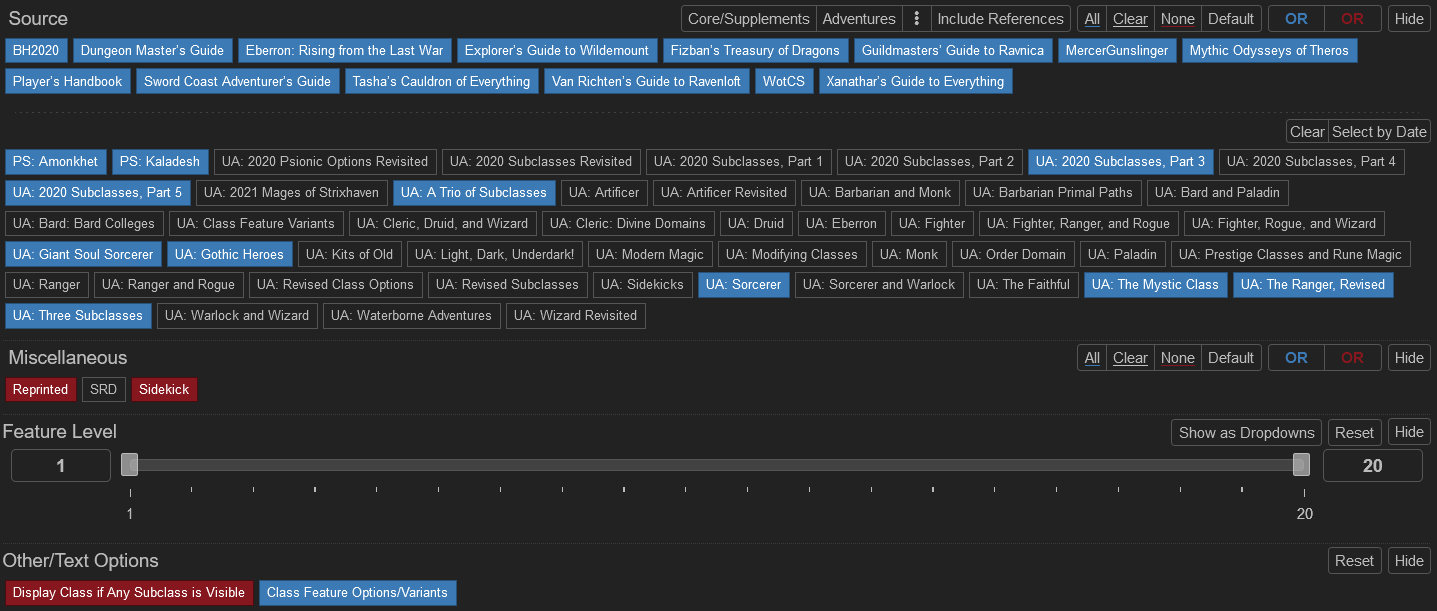
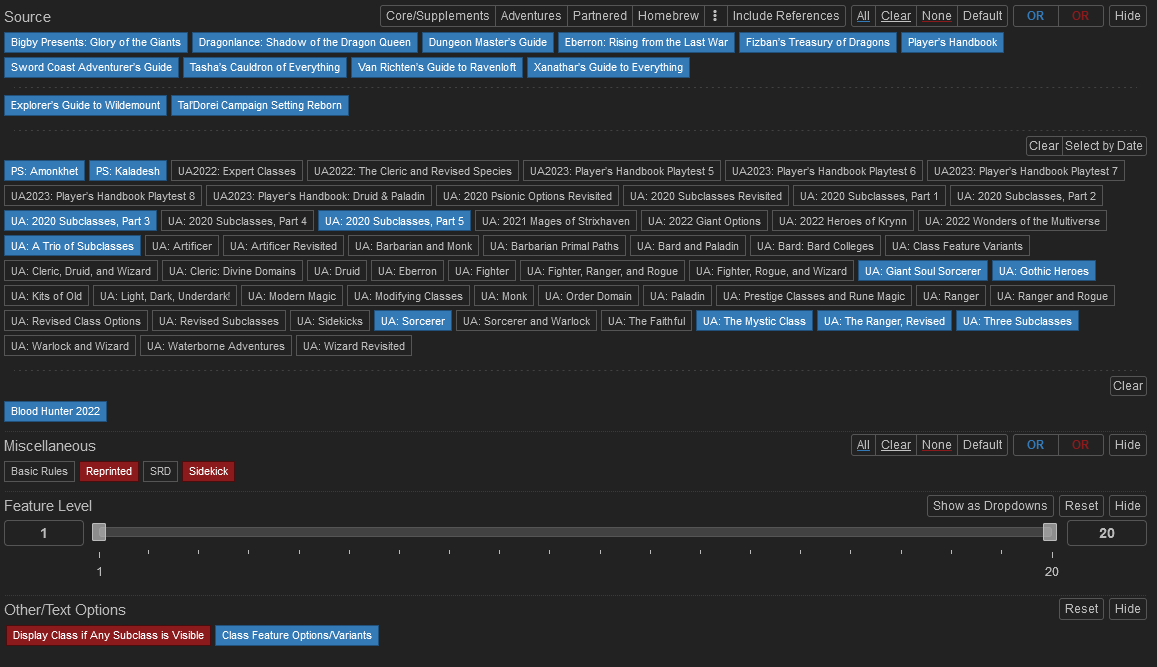
Update to catch up to BGG, TDCSR, PBTSO, SaO, TBoMT

diff --git a/character_creation/2_core_character_creation.md b/character_creation/2_core_character_creation.md
@@ -8,7 +8,7 @@ Be aware that ReCoA uses some [custom rules](../modified_mechanics/rules.md). Ea
 (If a link to a filtered 5e page differs from the screenshot of the filter on the github, the screenshot on the github shows the correct options.  Disregard the link, it is most likely outdated.)
 
 ## Races
-To see allowed Races, set the filters according to the image below, or use this [link](https://5e.tools/races.html#aarakocra_eepc,flstsource:awm=1~lr=1~oga=1~psz=1~ttp=1,flopsource:extend).
+To see allowed Races, set the filters according to the image below, or use this [link](https://5e.tools/races.html#aarakocra_eepc,flstsource:awm=1~lr=1~oga=1~psz=1~ttp=1~egw=1,flopsource:extend).
 
 ![](../assets/allowed_races.png)
 
@@ -26,7 +26,7 @@ To see allowed Races, set the filters according to the image below, or use this 
 
 ## Classes
 
-To see allowed Classes, set the filters according to the image below, or use this [link](https://5e.tools/classes.html#artificer_tce,flstsource:psa=1~psk=1~ua2020subclassespt3=1~ua2020subclassespt5=1~uaatrioofsubclasses=1~uagiantsoulsorcerer=1~uagothicheroes=1~uasorcerer=1~uathemysticclass=1~uatherangerrevised=1~uathreesubclasses=1,flopsource:extend).
+To see allowed Classes, set the filters according to the image below, or use this [link](https://5e.tools/classes.html#artificer_tce,flstsource:psa=1~psk=1~ua2020subclassespt3=1~ua2020subclassespt5=1~uaatrioofsubclasses=1~uagiantsoulsorcerer=1~uagothicheroes=1~uasorcerer=1~uathemysticclass=1~uatherangerrevised=1~uathreesubclasses=1~egw=1~tdcsr=1,flopsource:extend).
 
 ![](../assets/allowed_classes.png)
 
@@ -35,7 +35,7 @@ To see allowed Classes, set the filters according to the image below, or use thi
 
 ## Spells
 
-To see allowed Spells, set the filters according to the image below, or use this [link](https://5e.tools/spells.html#abi-dalzim's%20horrid%20wilting_xge,flstsource:llk=1~scc=0,flopsource:extend).
+To see allowed Spells, set the filters according to the image below, or use this [link](https://5e.tools/spells.html#abi-dalzim's%20horrid%20wilting_xge~egw=1~tdcsr=1,flstsource:llk=1~scc=0,flopsource:extend).
 
 ![](../assets/allowed_spells.png)
 
@@ -43,13 +43,13 @@ To see allowed Spells, set the filters according to the image below, or use this
 
 ## Backgrounds
 
-To see allowed Backgrounds, set the filters according to the image below, or use this [link](https://5e.tools/backgrounds.html#acolyte_phb,flstsource:aag=0,flopsource:extend).
+To see allowed Backgrounds, set the filters according to the image below, or use this [link](https://5e.tools/backgrounds.html#acolyte_phb,flstsource:aag=0~egw=1~tdcsr=1,flopsource:extend).
 
 ![](../assets/allowed_backgrounds.png)
 
 ## Feats
 
-To see allowed Feats, set the filters according to the image below, or use this [link](https://5e.tools/feats.html#aberrant%20dragonmark_erlw,flstsource:uafeatsforskills=1~uafeats=1,flopsource:extend).
+To see allowed Feats, set the filters according to the image below, or use this [link](https://5e.tools/feats.html#aberrant%20dragonmark_erlw,flstsource:uafeatsforskills=1~uafeats=1~egw=1~tdcsr=1,flopsource:extend).
 
 ![](../assets/allowed_feats.png)
 
@@ -59,11 +59,17 @@ Characters are free to select a feat at first level if their background does not
 
 ## Items
 
-To see allowed items, set the filters according to the image below, or use this [link](https://5e.tools/items.html#chain%20mail_phb,flstsource:llk=1~oga=1~rmbre=0,flopsource:extend,flsttype:renaissance=0~treasure=0,floptype:extend).
+To see allowed items, set the filters according to the image below, or use this [link](https://5e.tools/items.html#chain%20mail_phb,flstsource:llk=1~oga=1~rmbre=0~egw=1~tdcsr=1,flopsource:extend,flsttype:renaissance=0~treasure=0,floptype:extend).
 
 ![](../assets/allowed_items.png)
 
 We allow items with the Renaissance tag but not the Futuristic or Modern tag. There are no exceptions.
+The following items are banned for thematic or balanced purposes:
+* Statuette of Saint Markovia (CoS)
+* Deck of Wonder (BoMT)
+* Deck of Many More Things (MoMT)
+* Jester's Mask (BoMT)
+* All variants of the Fate Dealer's Deck (BoMT)
 
 *`Remember:` ReCoA uses some [custom item mechanics and modified items](../modified_mechanics/items.md).*
 
